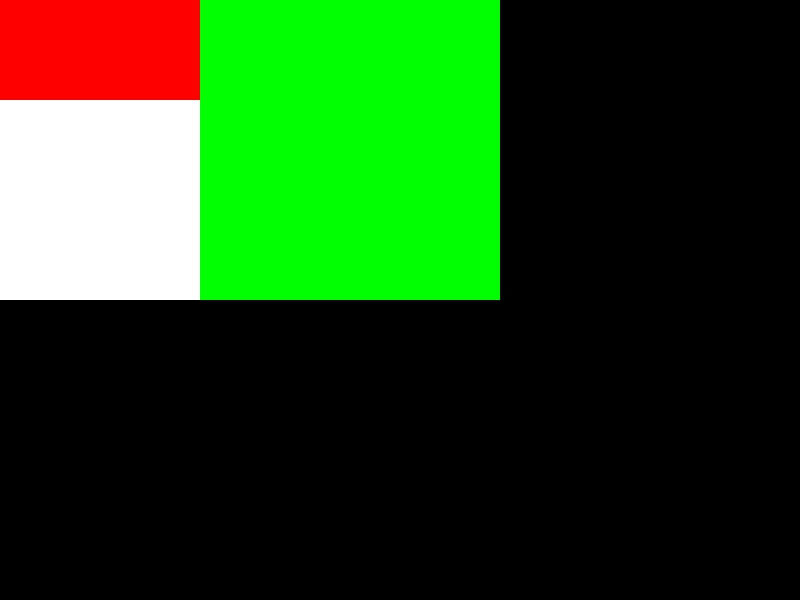
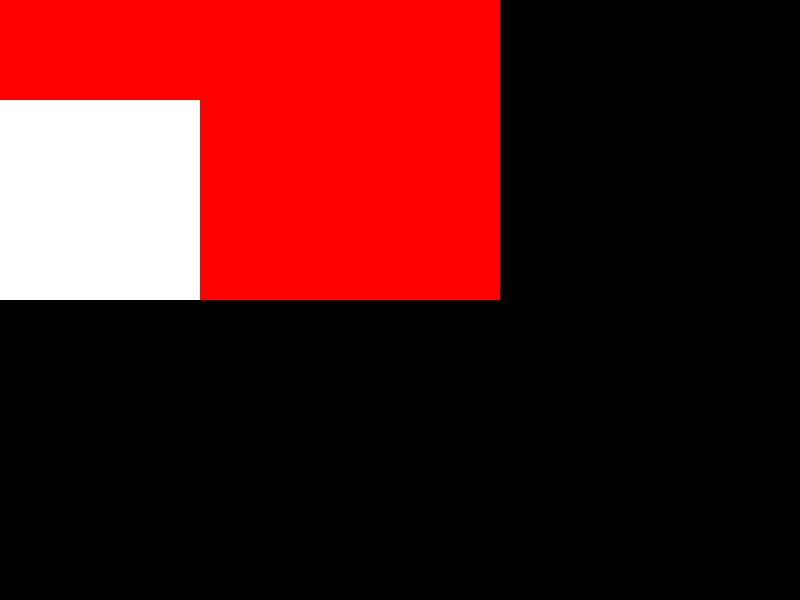
week05 07 update

Changed region(s): [[0.25, 0.0, 0.625, 0.51]]

diff --git a/week05/HTTP/parser.js b/week05/HTTP/parser.js
@@ -72,6 +72,9 @@ function match(element, selector) {
     if (element.tagName === selector) {
       return true;
     }
+    // if (selector.match(/\w+/) && element.tagName === selector.match(/\w+/)[0]) {
+    //   return true;
+    // }
   }
 
   return false;
@@ -81,13 +84,41 @@ function specificity(selector) {
   const p = [0, 0, 0, 0];
   const selectorParts = selector.split(" ");
 
+  /**
+   * 如果有 tagName，则一定在开头，否则会和 className 或者 idName 连起来
+   * 这里 复合选择器可能出现的情况
+   * div
+   * div.c1.c2
+   * div#id.c1.c2.c3
+   * div.c1#id.c2.c3
+   * #id
+   * #id.c1.c2
+   * .c1.c2
+   * .c1.c2#id.c3.c4
+   */
+
   for (const part of selectorParts) {
     if (part.charAt(0) === "#") {
       p[1] += 1;
+      // 计算 class
+      p[2] += part.split(".").length - 1;
     } else if (part.charAt(0) === ".") {
-      p[2] += 1;
+      // 计算 id 可能出现在 中间 的情况
+      if (part.includes("#")) {
+        p[1] += 1;
+      }
+      // 当这里有多个 class 的时候，需要统计 class 的个数
+      p[2] += part.split(".").length - 1;
     } else {
+      // tagName 的优先级最低
       p[3] += 1;
+      // 计算 id 可能出现在 中间 的情况
+      if (part.includes("#")) {
+        p[1] += 1;
+      }
+
+      // 计算 class
+      p[2] += part.split(".").length - 1;
     }
   }
 

diff --git a/week05/HTTP/server.js b/week05/HTTP/server.js
@@ -72,21 +72,34 @@ const server = http.createServer((request, response) => {
             background-color: rgb(255, 0, 0);
           }
 
-          #container .c1.c2.c3 {
+          #container .c1 {
             flex: 1;
             background-color: rgb(0, 255, 0);
+            font-size: 50px;
           }
 
+
           #container .c1.c2 {
-            font-size: 50px;
+            background-color: rgb(255, 0, 0);
+          }
+
+          #container .c1.c2.c3 {
+            color: blue;
+            font-size: 100px;
+          }
+
+          #container div.c1#id1.c2.c3 {
+            color: rgb(100, 100, 100);
+            background-color: rgb(0, 0, 255);
           }
         </style>
       </head>
 
       <body>
         <div id="container">
-          <div id="myid" />
-          <div class="c1 c2 c3" />
+          <div id="myid">myid</div>
+          <div class="c1 c2 c3"
+              id='id1'>c1</div>
         </div>
       </body>
 

diff --git a/week05/HTTP/index.html b/week05/HTTP/index.html
@@ -34,13 +34,19 @@
       color: blue;
       font-size: 100px;
     }
+
+    #container div.c1#id1.c2.c3 {
+      color: pink;
+      background-color: grey;
+    }
   </style>
 </head>
 
 <body>
   <div id="container">
     <div id="myid">myid</div>
-    <div class="c1 c2 c3">c1</div>
+    <div class="c1 c2 c3"
+         id='id1'>c1</div>
   </div>
 </body>
 

diff --git a/week05/NOTE.md b/week05/NOTE.md
@@ -1,5 +1,3 @@
 学习笔记
 
-5 7 里面有选做的作业
-
-class 里面的符合选择器
+本周主要学习了 CSS 计算、排版和渲染部分，巩固了 CSS 选择器的知识，对之前模糊两可的一些知识点加深了认识。
